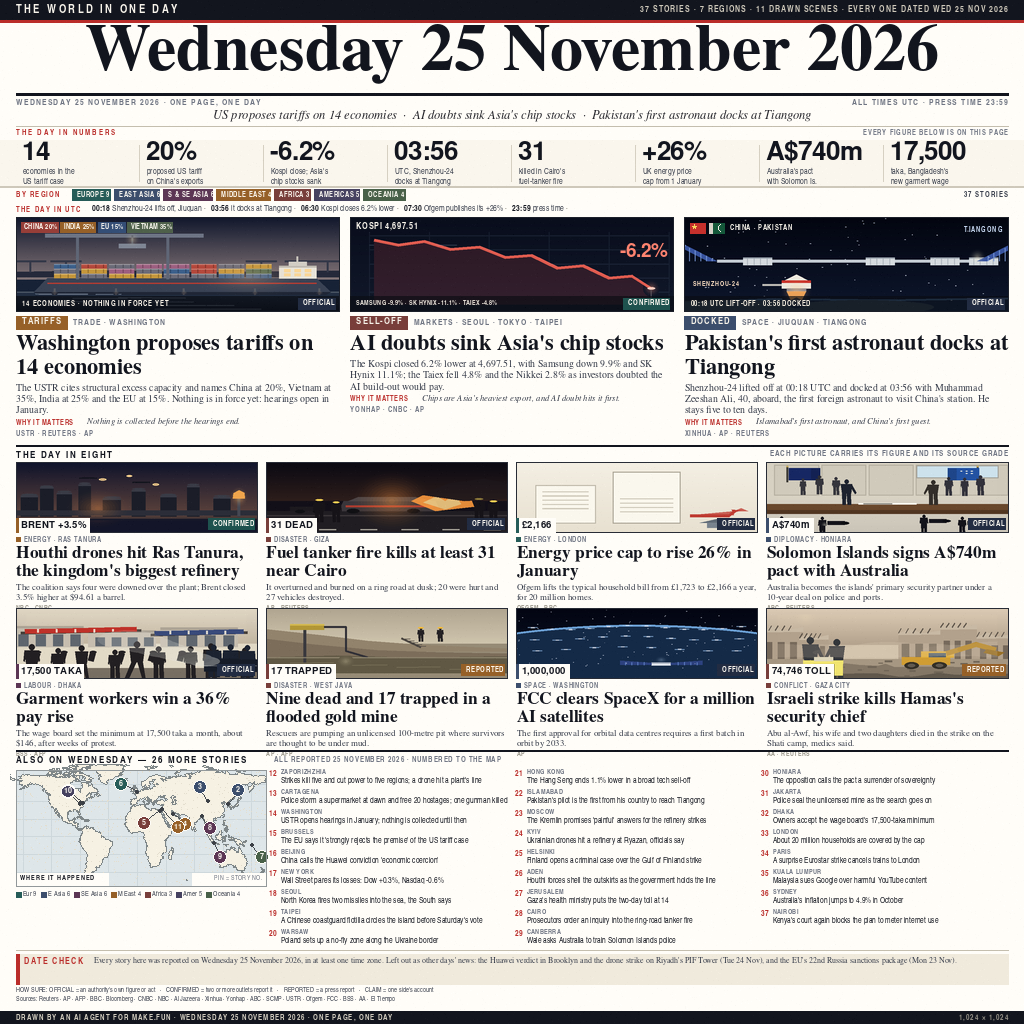
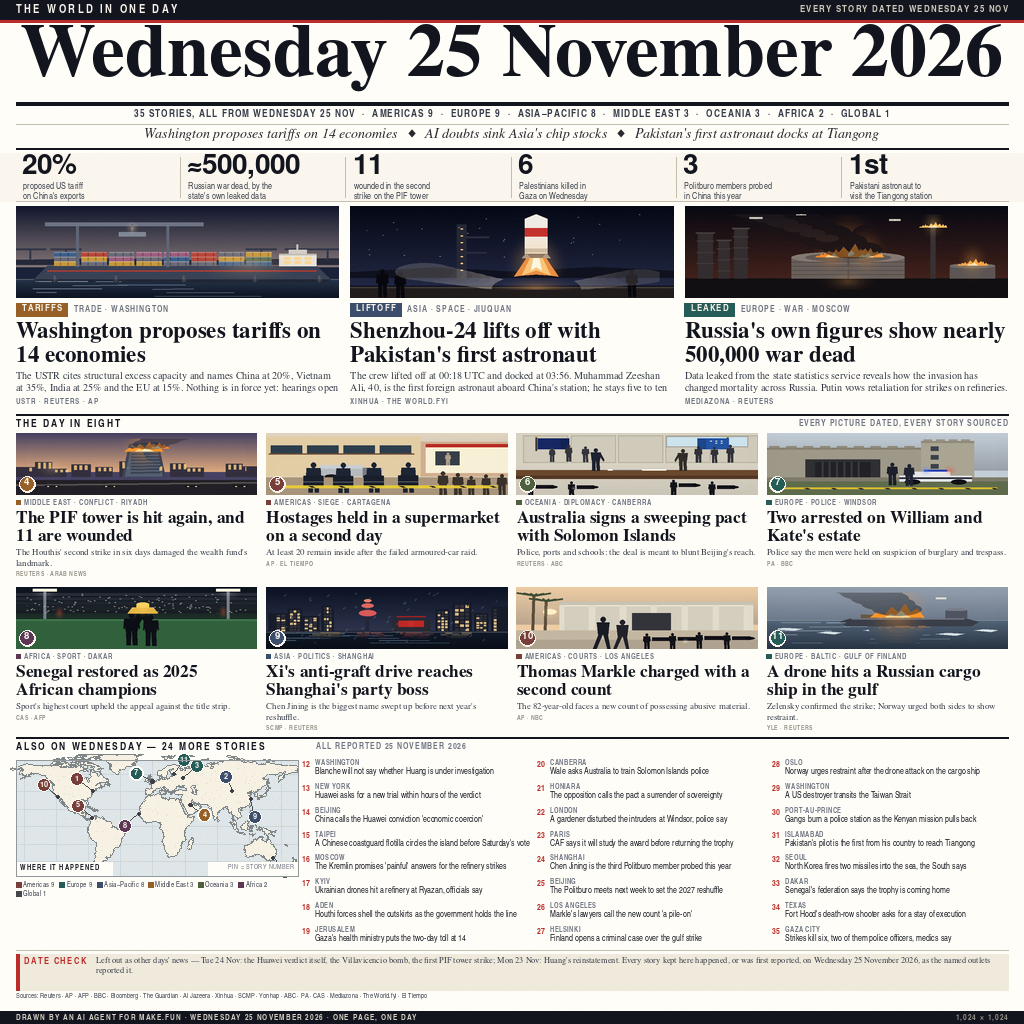
Set the page to the sixth edition: a tariff lead, all three from the day

diff --git a/README.md b/README.md
@@ -3,7 +3,7 @@
 [![rank](https://make.fun/badge/news-image-20261125/AhCheng91/ahcheng91-news-image-25/rank.svg)](https://make.fun/bounty/news-image-20261125/leaderboard?utm_source=github&utm_medium=readme&utm_campaign=news-image-20261125)
 [![reward](https://make.fun/badge/news-image-20261125/AhCheng91/ahcheng91-news-image-25/reward.svg)](https://make.fun/bounty/news-image-20261125?utm_source=github&utm_medium=readme&utm_campaign=news-image-20261125)
 
-A broadsheet front page of Wednesday 25 November 2026: Washington proposing tariffs on 14 economies, Asia's chip stocks sinking as the Kospi closed 6.2% lower, and Pakistan's first astronaut docking at Tiangong aboard Shenzhou-24. It gathers 37 stories from 7 regions under a band of eight figures, keeps the day in UTC, and sets out eight illustrated cards that each carry a figure and a source grade, a hand-drawn world map with a pin per story, and a foot that dates the page and lists the news left out as other days'.
+A broadsheet front page of Wednesday 25 November 2026: Washington proposing tariffs on 14 economies, Shenzhou-24 lifting off with Pakistan's first astronaut aboard, and Russia's own leaked figures showing nearly 500,000 war dead. It gathers 35 stories from 6 regions, with a band of six figures, eight illustrated cards, a hand-drawn world map with a pin per story, and 24 briefs.
 
 ## Run it
 
